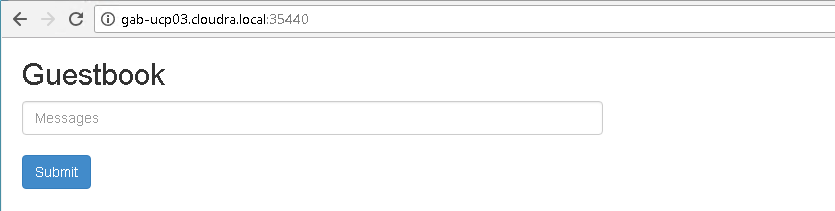
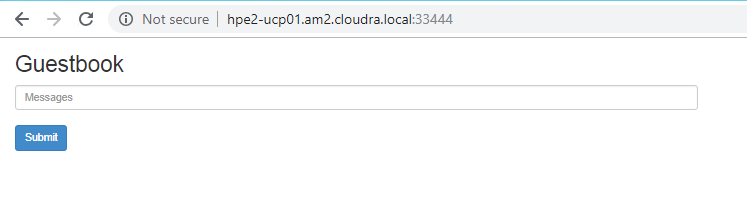
post deploy

Changed region(s): [[0.0, 0.266, 0.9237, 0.9163], [0.0, 0.0591, 1.0, 0.2069], [0.0, 0.0, 1.0, 0.0296]]

diff --git a/post-deploy/k8s-example-guestbook.md b/post-deploy/k8s-example-guestbook.md
@@ -1,17 +1,53 @@
-# Kubernetes guestbook example with Redis
+# Post-deploy validation
 
-Many sample Kubernetes applications are available at [https://kubernetes.io/docs/tutorials/](https://kubernetes.io/docs/tutorials/). This section details how to deploy the stateless guestbook application with Redis as documented at [https://kubernetes.io/docs/tutorials/stateless-application/guestbook/](https://kubernetes.io/docs/tutorials/stateless-application/guestbook/). When deploying applications, you must be aware that Kubernetes version 1.8 shipped with Docker 2.0 and, as a result, you may have to make changes in some places to the configuration files, particularly with the `apiVersion` field.
 
-The manifest file, included below, specifies a deployment controller that runs a single replica Redis master pod.
+
+Many sample Kubernetes applications are available at [https://kubernetes.io/docs/tutorials/](https://kubernetes.io/docs/tutorials/). This section details how to deploy the stateless guestbook application with Redis as documented at [https://kubernetes.io/docs/tutorials/stateless-application/guestbook/](https://kubernetes.io/docs/tutorials/stateless-application/guestbook/). 
+
+
+When deploying applications, you must be aware that Kubernetes version 1.11 shipped with Docker 2.1 and, as a result, you may have to make changes in some places to the configuration files.
+
+
+## Prerequisites
+
+-   Install the `kubectl` binary on your Ansible box
+-   Install the UCP Client bundle for the `admin` user
+-   Confirm that you can connect to the cluster by running a test command, for example, `kubectl get nodes`
+
+
+## Kubernetes guestbook example with Redis
+
+
+### Summary
+```
+# git clone https://github.com/kubernetes/examples k8s-examples
+# cd k8s-examples/guestbook
+# kubectl apply -f redis-master-deployment.yaml
+# kubectl apply -f redis-master-service.yaml
+# kubectl apply -f redis-slave-deployment.yaml
+# kubectl apply -f redis-slave-service.yaml
+# kubectl apply -f frontend-deployment.yaml
+# kubectl apply -f frontend-service.yaml
+# kubectl get svc frontend
+```
+
+
+### Details
+Download the full set of Kubernetes examples and change to the guestbook directory
+```
+# git clone https://github.com/kubernetes/examples k8s-examples
+# cd k8s-examples/guestbook
+```
+
+
+The manifest file `redis-master-deployment.yaml`, included below, specifies a deployment controller that runs a single replica Redis master pod.
 
 ```
-# cat redis-master-deployment.yaml
-apiVersion: apps/**v1beta2**  # for versions before 1.9.0 use apps/v1beta2
+# # cat redis-master-deployment.yaml
+apiVersion: apps/v1 #  for k8s versions before 1.9.0 use apps/v1beta2  and before 1.8.0 use extensions/v1beta1
 kind: Deployment
 metadata:
   name: redis-master
-  labels:
-    app: redis
 spec:
   selector:
     matchLabels:
@@ -35,7 +71,6 @@ spec:
             memory: 100Mi
         ports:
         - containerPort: 6379
-
 ```
 
 Apply the Redis master deployment from the `redis-master-deployment.yaml` file:
@@ -47,16 +82,14 @@ Apply the Redis master deployment from the `redis-master-deployment.yaml` file:
 Query the list of Pods to verify that the Redis master pod is running.
 
 ```
-# kubectl get pods
-NAME                            READY     STATUS    RESTARTS   AGE
-**redis-master-5f8d48b75f-8ztt4**   1/1       Running   0          33s
-
+# kubectl get pods | grep redis
+redis-master-57657796fc-psvhc     1/1       Running   0          32s
 ```
 
 Use the `kubectl logs` command to view the logs from the Redis master pod:
 
 ```
-[root@gab-ansible guestbook]#  kubectl logs -f  **redis-master-5f8d48b75f-8ztt4**
+# kubectl logs -f redis-master-57657796fc-psvhc
                 _._
            _.-``__ ''-._
       _.-``    `.  `_.  ''-._           Redis 2.8.19 (00000000/0) 64 bit
@@ -75,11 +108,10 @@ Use the `kubectl logs` command to view the logs from the Redis master pod:
           `-._        _.-'
               `-.__.-'
 
-[1] 24 Aug 15:24:06.575 # Server started, Redis version 2.8.19
-[1] 24 Aug 15:24:06.576 # WARNING you have Transparent Huge Pages (THP) support enabled in your kernel. This will create latency and memory usage issues with Redis. To fix this issue run the command 'echo never > /sys/kernel/mm/transparent_hugepage/enabled' as root, and add it to your /etc/rc.local in order to retain the setting after a reboot. Redis must be restarted after THP is disabled.
-[1] 24 Aug 15:24:06.576 # WARNING: The TCP backlog setting of 511 cannot be enforced because /proc/sys/net/core/somaxconn is set to the lower value of 128.
-[1] 24 Aug 15:24:06.576 * The server is now ready to accept connections on port 6379
-
+[1] 07 Feb 15:04:32.189 # Server started, Redis version 2.8.19
+[1] 07 Feb 15:04:32.189 # WARNING you have Transparent Huge Pages (THP) support enabled in your kernel. This will create latency and memory usage issues with Redis. To fix this issue run the command 'echo never > /sys/kernel/mm/transparent_hugepage/enabled' as root, and add it to your /etc/rc.local in order to retain the setting after a reboot. Redis must be restarted after THP is disabled.
+[1] 07 Feb 15:04:32.189 # WARNING: The TCP backlog setting of 511 cannot be enforced because /proc/sys/net/core/somaxconn is set to the lower value of 128.
+[1] 07 Feb 15:04:32.190 * The server is now ready to accept connections on port 6379
 ```
 
 The guestbook application needs to communicate with the Redis master to write its data. You need to apply a service to proxy the traffic to the Redis master pod. A service defines a policy to access the pods.
@@ -102,7 +134,6 @@ spec:
     app: redis
     role: master
     tier: backend
-
 ```
 
 Apply the Redis master service from the `redis-master-service.yaml` file:
@@ -116,23 +147,19 @@ service "redis-master" created
 Query the list of services to verify that the Redis master service is running.
 
 ```
-#  kubectl get service
-NAME           TYPE        CLUSTER-IP      EXTERNAL-IP   PORT(S)    AGE
-kubernetes     ClusterIP   10.96.0.1       <none>        443/TCP    2d
-redis-master   ClusterIP   10.96.174.129   <none>        6379/TCP   1m
-
+# kubectl get svc
+NAME           TYPE        CLUSTER-IP      EXTERNAL-IP   PORT(S)          AGE
+redis-master   ClusterIP   10.96.240.18    <none>        6379/TCP         1m
 ```
 
 Although the Redis master is a single pod, you can make it highly available to meet traffic demands by adding replica Redis slaves.
 
 ```
 # cat redis-slave-deployment.yaml
-apiVersion: apps/**v1beta2** # for versions before 1.9.0 use apps/v1beta2
+apiVersion: apps/v1 #  for k8s versions before 1.9.0 use apps/v1beta2  and before 1.8.0 use extensions/v1beta1
 kind: Deployment
 metadata:
   name: redis-slave
-  labels:
-    app: redis
 spec:
   selector:
     matchLabels:
@@ -157,17 +184,13 @@ spec:
         env:
         - name: GET_HOSTS_FROM
           value: dns
-          # Using `GET_HOSTS_FROM=dns` requires your cluster to
-          # provide a dns service. As of Kubernetes 1.3, DNS is a built-in
-          # service launched automatically. However, if the cluster you are using
-          # does not have a built-in DNS service, you can instead
-          # access an environment variable to find the master
-          # service's host. To do so, comment out the 'value: dns' line above, and
+          # If your cluster config does not include a dns service, then to
+          # instead access an environment variable to find the master
+          # service's host, comment out the 'value: dns' line above, and
           # uncomment the line below:
           # value: env
         ports:
         - containerPort: 6379
-
 ```
 
 Create the Redis slaves from the `redis-slave-deployment.yaml` file.
@@ -181,18 +204,16 @@ deployment.apps "redis-slave" created
 Query the list of Pods to verify that the Redis slave pods are running.
 
 ```
-# kubectl get pods
-NAME                            READY     STATUS    RESTARTS   AGE
-redis-master-5f8d48b75f-8ztt4   1/1       Running   0          39m
-redis-slave-58fb7bb9b5-25z4m    1/1       Running   0          1m
-redis-slave-58fb7bb9b5-q8zn9    1/1       Running   0          1m
-
+# kubectl get pods | grep redis
+redis-master-57657796fc-psvhc     1/1       Running   0          7m
+redis-slave-5cb5956459-bqqlg      1/1       Running   0          19s
+redis-slave-5cb5956459-gql5x      1/1       Running   0          19s
 ```
 
 The guestbook application needs to communicate to Redis slaves to read data. To make the Redis slaves discoverable, you need to set up a service that provides transparent load balancing to the set of pods.
 
 ```
-# cat redis-slave-service.yaml
+]# cat redis-slave-service.yaml
 apiVersion: v1
 kind: Service
 metadata:
@@ -208,7 +229,6 @@ spec:
     app: redis
     role: slave
     tier: backend
-
 ```
 
 Deploy the Redis slave service from the `redis-slave-service.yaml` file
@@ -222,24 +242,19 @@ service "redis-slave" created
 Query the list of services to verify that the Redis slave service is running.
 
 ```
-# kubectl get services
-NAME           TYPE        CLUSTER-IP      EXTERNAL-IP   PORT(S)    AGE
-kubernetes     ClusterIP   10.96.0.1       <none>        443/TCP    2d
-redis-master   ClusterIP   10.96.174.129   <none>        6379/TCP   30m
-redis-slave    ClusterIP   10.96.82.175    <none>        6379/TCP   3m
-
+# kubectl get services | grep redis
+redis-master   ClusterIP   10.96.240.18    <none>        6379/TCP         4m
+redis-slave    ClusterIP   10.96.200.85    <none>        6379/TCP         22s
 ```
 
 The guestbook application has a web frontend written in PHP serving the HTTP requests. It is configured to connect to the `redis-master` service for write requests and the `redis-slave` service for read requests.
 
 ```
 # cat frontend-deployment.yaml
-apiVersion: **apps/v1beta2** # for versions before 1.9.0 use apps/v1beta2
+apiVersion: apps/v1 #  for k8s versions before 1.9.0 use apps/v1beta2  and before 1.8.0 use extensions/v1beta1
 kind: Deployment
 metadata:
   name: frontend
-  labels:
-    app: guestbook
 spec:
   selector:
     matchLabels:
@@ -262,17 +277,13 @@ spec:
         env:
         - name: GET_HOSTS_FROM
           value: dns
-          # Using `GET_HOSTS_FROM=dns` requires your cluster to
-          # provide a dns service. As of Kubernetes 1.3, DNS is a built-in
-          # service launched automatically. However, if the cluster you are using
-          # does not have a built-in DNS service, you can instead
-          # access an environment variable to find the master
-          # service's host. To do so, comment out the 'value: dns' line above, and
-          # uncomment the line below:
+          # If your cluster config does not include a dns service, then to
+          # instead access environment variables to find service host
+          # info, comment out the 'value: dns' line above, and uncomment the
+          # line below:
           # value: env
         ports:
         - containerPort: 80
-
 ```
 
 Create the frontend deployment using the `frontend-deployment.yaml` file.
@@ -288,10 +299,9 @@ Query the list of pods to verify that the three frontend replicas are running.
 ```
 # kubectl get pods -l app=guestbook -l tier=frontend
 NAME                        READY     STATUS    RESTARTS   AGE
-frontend-574b66f649-2qh6h   1/1       Running   0          7m
-frontend-574b66f649-782mr   1/1       Running   0          7m
-frontend-574b66f649-mnbc9   1/1       Running   0          7m
-
+frontend-7f5cd767dc-28j6b   1/1       Running   0          23s
+frontend-7f5cd767dc-mqcbv   1/1       Running   0          23s
+frontend-7f5cd767dc-v6lwc   1/1       Running   0          23s
 ```
 
 If you want guests to be able to access your guestbook, you must configure the frontend service to be externally visible, so a client can request the service from outside the container cluster.
@@ -307,7 +317,7 @@ metadata:
     tier: frontend
 spec:
   # comment or delete the following line if you want to use a LoadBalancer
-  **type: NodePort**
+  type: NodePort
   # if your cluster supports it, uncomment the following to automatically create
   # an external load-balanced IP for the frontend service.
   # type: LoadBalancer
@@ -316,7 +326,6 @@ spec:
   selector:
     app: guestbook
     tier: frontend
-
 ```
 
 Deploy the `frontend` service using the `frontend-service.yaml` file
@@ -330,17 +339,14 @@ service "frontend" created
 Query the list of services to verify that the `frontend` service is running.
 
 ```
-# kubectl get services
-NAME           TYPE        CLUSTER-IP      EXTERNAL-IP      PORT(S)        AGE
-frontend       NodePort    10.96.14.76     <none>        80:**35440**/TCP   15s
-kubernetes     ClusterIP   10.96.0.1       <none>        443/TCP        2d
-redis-master   ClusterIP   10.96.174.129   <none>        6379/TCP       54m
-redis-slave    ClusterIP   10.96.82.175    <none>        6379/TCP       27m
-
+#  kubectl get services | grep frontend
+frontend       NodePort    10.96.16.200    <none>        80:**33444**/TCP     25s
 ```
 
-Access the UI, using the identified port, at `http://gab-ucp03.cloudra.local:**35440**/` as shown in [\#k8s-guestbook1](#k8s-guestbook1).
+Access the UI using the identified port on any node in your cluster, for example, `http://hpe2-ucp01.am2.cloudra.local:**33444**/` as shown in [\#k8s-guestbook1](#k8s-guestbook1).
 
 ![ "Guestbook UI"][media-k8s-guestbook1-png]
 
 **Figure 21.** Guestbook UI
+
+[media-k8s-guestbook1-png]:<../media/k8s-guestbook1.png> 

diff --git a/sysdig/deploying-sysdig-k8s.md b/sysdig/deploying-sysdig-k8s.md
@@ -2,22 +2,23 @@
 
 ## Prerequisites
 
--   Install the `kubectl` binary on your Ansible box - see [https://docs.docker.com/ee/ucp/user-access/kubectl/](https://docs.docker.com/ee/ucp/user-access/kubectl/).
--   Install the UCP Client bundle for the `admin` user - see [https://docs.docker.com/ee/ucp/user-access/cli/](https://docs.docker.com/ee/ucp/user-access/cli/)
+-   Install the `kubectl` binary on your Ansible box
+-   Install the UCP Client bundle for the `admin` user
 -   Confirm that you can connect to the cluster by running a test command, for example, `kubectl get nodes`
 -   Ensure that you have configured the required variables, as described in the section [\#sysdig-config-k8s](#sysdig-config-k8s). For example, you add the relevant variables in the `group_vars/vars` file.
 
-    ```
-    sysdig_restricted_control_role: 'Restricted Control'
-    k8s_cluster: ucp_gab-ucp.cloudra.local
-    
-    ```
+```
+    sysdig_collector: 'collector.sysdigcloud.com'
+    sysdig_collector_port: '6666'
+    ysdig_agent: 'https://s3.amazonaws.com/download.draios.com/stable/install-agent'
+    sysdig_tags: 'location:Enter city,role:Enter role,owner:Customer name'
+    k8s_cluster: 'ucp_hpe-ucp.cloudra.local'
+```
 
     You should add the access key to the encrypted `group_vars/vault` using the command `ansible-vault edit group_vars/vault`.
 
     ```
-    sysdig_access_key: '10****97-9160-****-9061-84bfd0f****0'
-    
+    sysdig_access_key: '10****97-9160-****-9061-84bfd0f****0'    
     ```
 
 

diff --git a/storage/k8s-nfs-provisioner.md b/storage/k8s-nfs-provisioner.md
@@ -2,9 +2,9 @@
 
 ## Prerequisites
 
--   Configure the variables described in the section [\#](#)
--   Install the `kubectl` binary on your Ansible box as documented at [https://docs.docker.com/ee/ucp/user-access/kubectl/](https://docs.docker.com/ee/ucp/user-access/kubectl/)
--   Install the UCP Client bundle for the `admin` user as described at [https://docs.docker.com/ee/ucp/user-access/cli/\#download-client-certificates-by-using-the-rest-api](https://docs.docker.com/ee/ucp/user-access/cli/#download-client-certificates-by-using-the-rest-api)
+-   Configure the variables described in the section `Kubernetes Persistent Volume configuration`
+-   Install the `kubectl` binary on your Ansible box
+-   Install the UCP Client bundle for the `admin` user
 -   Confirm that you can connect to the cluster by running a test command, for example, `kubectl get nodes`
 
 ## Running the playbook

diff --git a/post-deploy/install-client-bundle.md b/post-deploy/install-client-bundle.md
@@ -19,3 +19,5 @@ Client Version: version.Info{Major:"1", Minor:"11", GitVersion:"v1.11.5", GitCom
 Server Version: version.Info{Major:"1", Minor:"11+", GitVersion:"v1.11.5-docker-1", GitCommit:"d512ba512d0de40cd80258f480ff66bf71f2d8a4", GitTreeState:"clean", BuildDate:"2018-12-03T19:55:14Z", GoVersion:"go1.10.3", Compiler:"gc", Platform:"linux/amd64"}
 ``
 
+
+More information on the client bundle is available at [https://docs.docker.com/ee/ucp/user-access/cli/\#download-client-certificates-by-using-the-rest-api](https://docs.docker.com/ee/ucp/user-access/cli/#download-client-certificates-by-using-the-rest-api)
